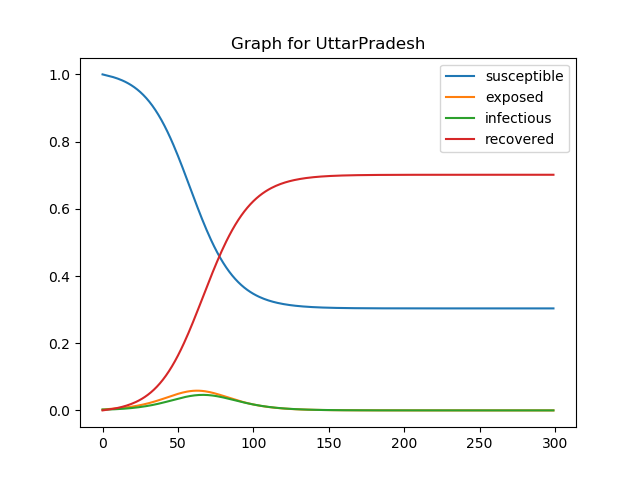
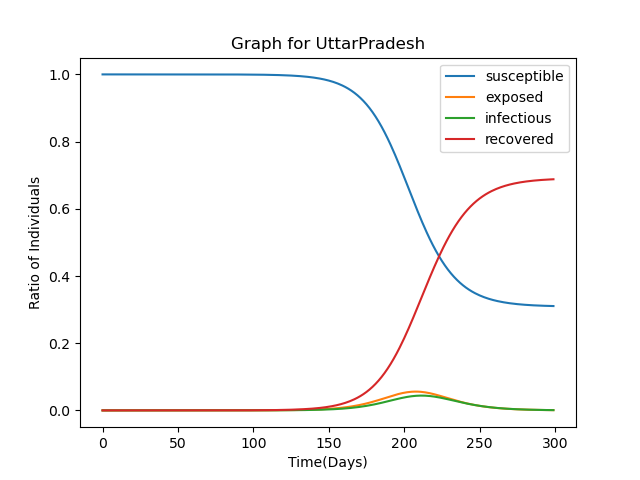
Final Version

diff --git a/vectorsolver.py b/vectorsolver.py
@@ -1,14 +1,12 @@
 import numpy as np
+import pandas as pd
 import scipy.integrate as spi
 import matplotlib.pyplot as plt
 
-# Time in days
-# t = 100
-
 # Population of states
-N = np.array([124, 237, 29, 85]) * 10*6
+N = np.array([124, 237, 29, 85]) * 10**6
 
-S0 = np.array([124, 237, 29, 85]) * 10*6
+S0 = N
 S0 = S0/N
 E0 = np.array([11, 31, 5, 24])
 E0 = E0/N
@@ -16,46 +14,23 @@ I0 = np.array([4, 38, 31, 15])
 I0 = I0/N
 R0 = np.array([0, 0, 0, 0])
 R0 = R0/N
-print(S0)
 AvgR0 = np.array([1.88, 1.7, 1.62, 1.56])
 
-d = 4
-z = 5
-# beta = x*y
-gamma = 1/d
-delta = 1/z
+gamma = 1/4
+delta = 1/5
 beta = AvgR0 * gamma
-print(beta)
 beta = np.diag(beta)
-# def calculate_beta(R_value):
-#     betaval = R_value * gamma
-#     betaval = np.diag(betaval)
-#     return betaval
-
-# R0_vec = beta/gamma
-
-# Equations
-# dsdt = (-1) * np.matmul(beta, S0*I0)
-# dedt = np.matmul(beta, S0*I0) - delta* E0
-# didt = delta* E0 - gamma*I0
-# drdt = gamma*I0
 
 def derivative_fun(all_vectors, t0):
-    # print("infunction")
     S = all_vectors[:4]
     E = all_vectors[4:8]
     I = all_vectors[8:12]
     R = all_vectors[12:]
-    # import pdb; pdb.set_trace()
-    # beta = calculate_beta(R)
-    # print(beta)
+
     dsdt = (-1) * np.matmul(beta, S*I)
     dedt = np.matmul(beta, S*I) - delta* E
     didt = delta* E - gamma*I
     drdt = gamma*I
-
-    # print("infunction")
-    # print(dsdt, dedt, didt, drdt)
 
     derivative_vector = []
     derivative_vector.extend(dsdt)
@@ -74,17 +49,29 @@ full_vector.extend(I0)
 full_vector.extend(R0)
 # Here we will get shape: (300, 16)
 v = spi.odeint(derivative_fun, full_vector, t)
+print(v.shape)
 
+all_data = pd.DataFrame()
 import os
 os.makedirs('Images', exist_ok=True)
 states = ['Bihar', 'UttarPradesh', 'Haryana', 'MadhyaPradesh']
+
 for i in range(4):
-    print(i, i+4, i+8, i+12)
+    # print(i, i+4, i+8, i+12)
+    all_data[f"{states[i]}_s(t)"] = v[:, i]
+    all_data[f"{states[i]}_e(t)"] = v[:, i+4]
+    all_data[f"{states[i]}_i(t)"] = v[:, i+8]
+    all_data[f"{states[i]}_r(t)"] = v[:, i+12]
     plt.plot(v[:, i])
     plt.plot(v[:, i+4])
     plt.plot(v[:, i+8])
     plt.plot(v[:, i+12])
     plt.title(f'Graph for {states[i]}')
+    plt.xlabel('Time(Days)')
+    plt.ylabel('Ratio of Individuals')
     plt.legend(['susceptible', 'exposed', 'infectious', 'recovered'])
     plt.savefig(f'Images/{states[i]}.png')
-    plt.show()
+    plt.close()
+print(all_data.shape)
+print(all_data.head())
+all_data.to_csv('all_state_data.csv')
